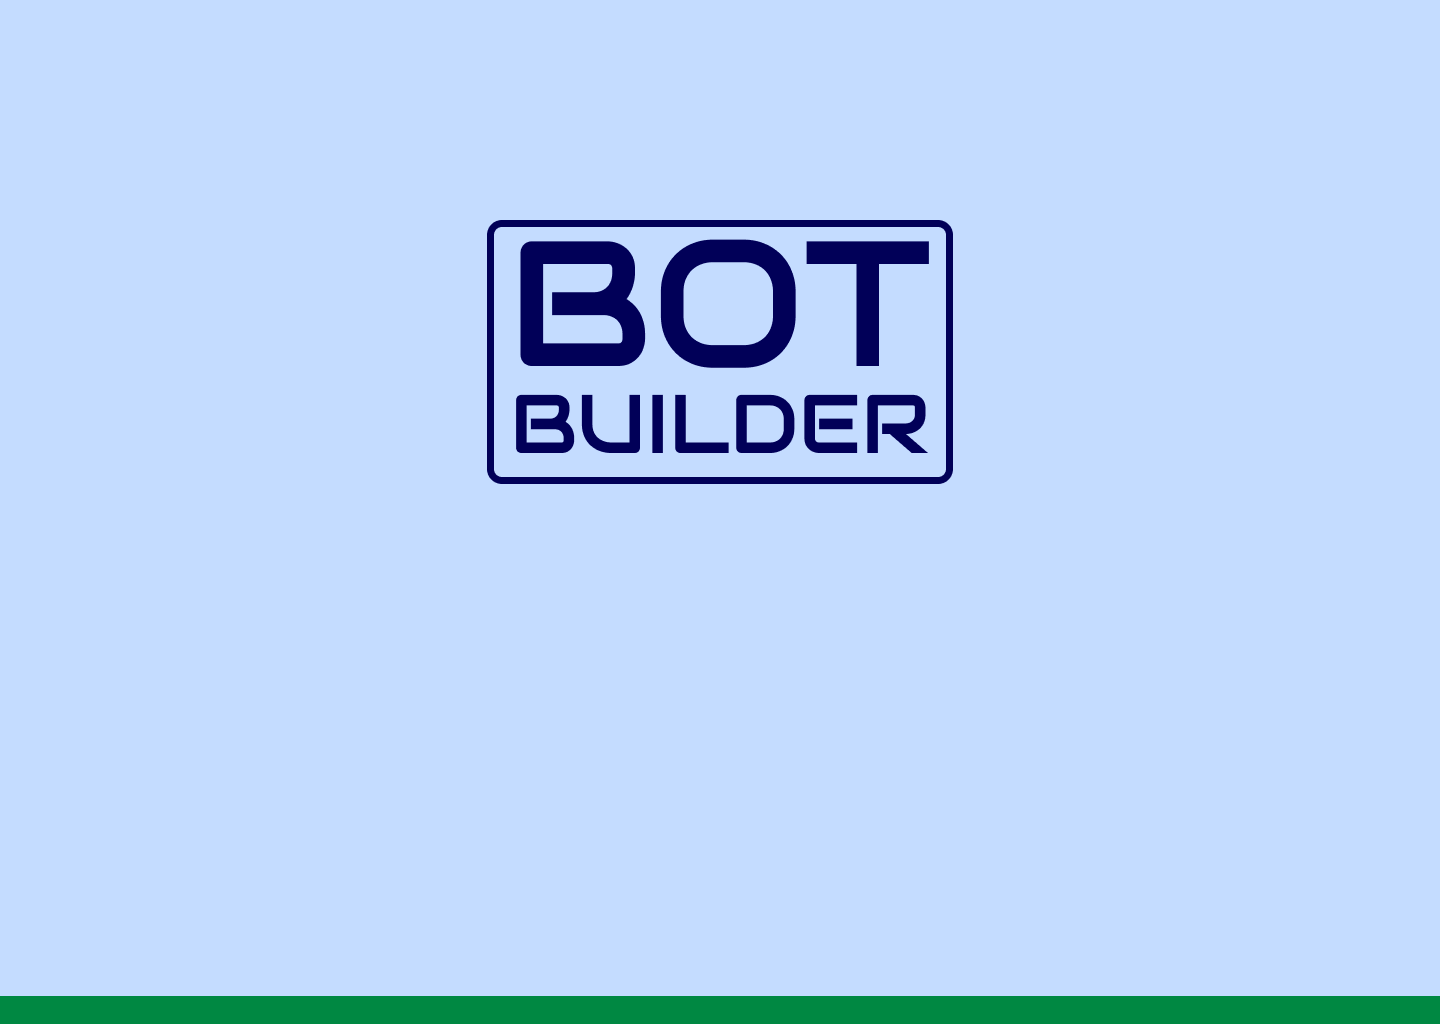
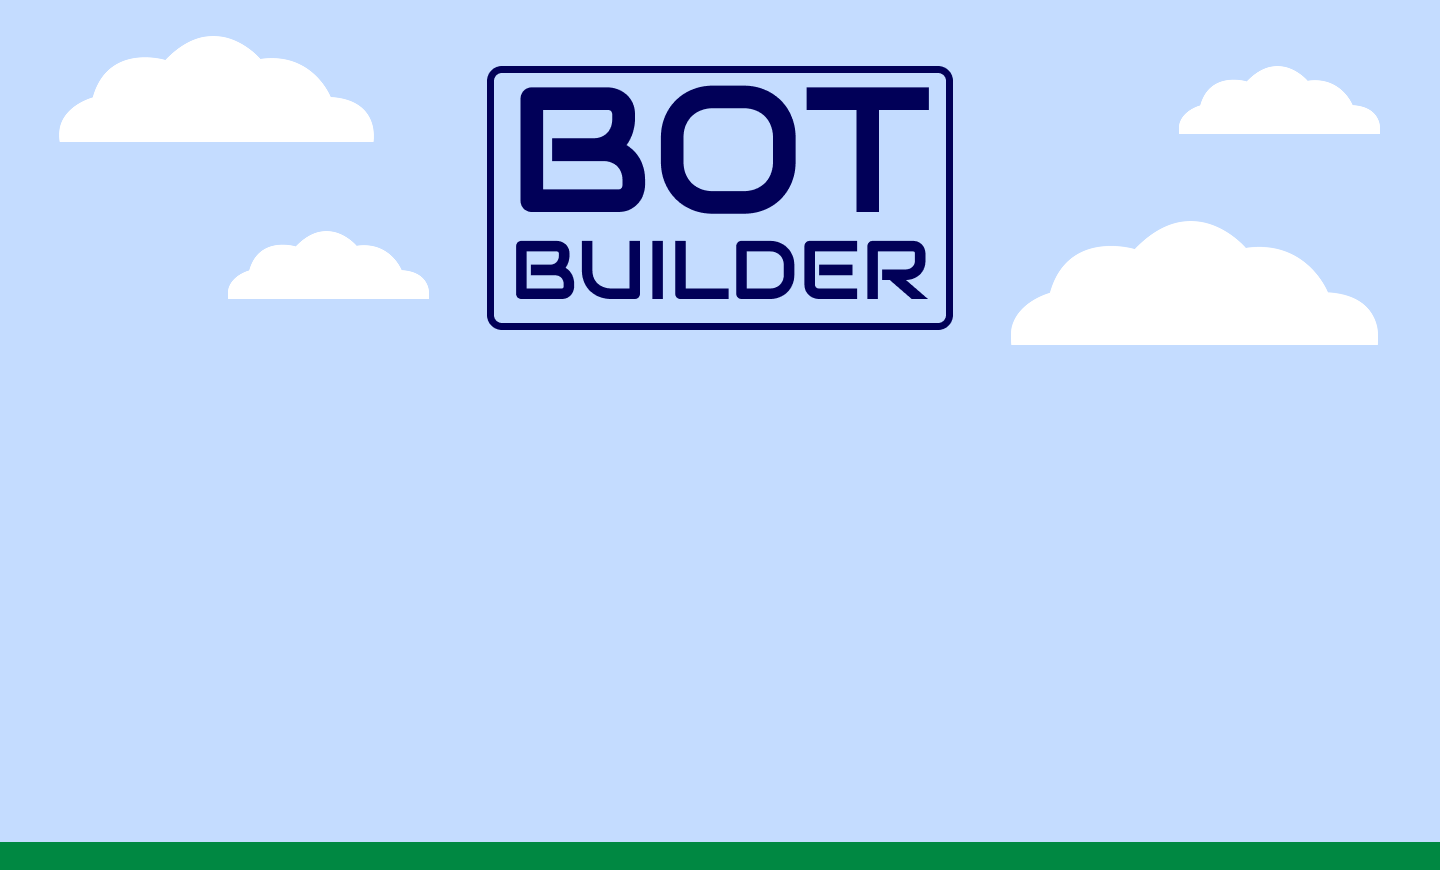
added in more css animations and adjusted html

diff --git a/styles.css b/styles.css
@@ -4,7 +4,7 @@
 
 @import url("reset.css");
 
-
+/*
 
 a {
     text-decoration: none;
@@ -105,7 +105,142 @@ main {
     width: 1440px;
 }
 
+*/
+
+a {
+    text-decoration: none;
+}
+
+body {
+    font-family: "Audiowide", sans-serif;
+    font-weight: 400;
+    font-style: normal;
+    font-size: 16px;
+    line-height: 20px;
+    color: #ffffff;
+    text-decoration: none;
+}
+
+.bot-rotate-y:hover {
+    transform: rotateY(360deg);
+    transition: transform 4s ease-in-out;
+    animation-iteration-count: infinite;
+}
+
+.blue-button {
+    font-family: "Audiowide", sans-serif;
+    font-weight: 400;
+    font-style: normal;
+    font-size: 25px;
+    color: #ffffff;
+    background-color: #1F80FF;
+    padding-left: 20px;
+    padding-right: 20px;
+    padding-top: 20px;
+    padding-bottom: 20px;
+    border-radius: 15px;
+    margin-left: 618px;
+}
+ 
+@keyframes float {
+    0% {transform: translateY(0px);}
+    25% {transform: translateY(20px);}
+    50% {transform: translateY(-10px);}
+    75% {transform: translateY(10px);}
+    100% {transform: translateY(0px);}
+}
+
+.bot-float {
+    animation-name: float;
+    animation-duration: 8s;
+    animation-iteration-count: infinite;
+    margin-bottom: 50px;
+}
+
+.white-button{
+    font-family: "Audiowide", sans-serif;
+    font-weight: 400;
+    font-style: normal;
+    font-size: 16px;
+    color: #1F80FF;
+    background-color: #ffffff;
+    padding-left: 20px;
+    padding-right: 20px;
+    padding-top: 20px;
+    padding-bottom: 20px;
+    border-radius: 15px;
+    width: 105px;
+    height: 20px;
+    margin-top: 47px;
+}
 
 
+h2 {
+    font-family: "Audiowide", sans-serif;
+    font-weight: 400;
+    font-style: normal;
+    font-size: 25px;
+    line-height: 32px;
+    color: #010058;
+    text-decoration: none;
+    padding-top: 350px;
+    margin-bottom: 39px;
+    margin-left: 487px;
+}
 
+li {
+    list-style: none;
+}
 
+.logo {
+    margin-top: 28px;
+    margin-bottom: 28px;
+}
+
+.left-bots {
+    width: 513px;
+    display: flex;
+    align-items: baseline;
+}
+
+.right-bots {
+    width: 416px;
+    display: flex;
+    margin-left: 250px;
+    align-items: baseline;
+}
+.bots {
+    display: flex;
+    align-items: baseline;
+    margin-top: -125px;
+}
+
+main {
+    background-image: url("images/background.png");
+    background-repeat: no-repeat;
+    height:1024px;
+    width: 1440px;
+    margin-top: -21px;
+}
+
+nav ul {
+    display: flex;
+    justify-content: space-between;
+}
+
+nav {
+    background-color: #1F80FF;
+    width: 1440px;
+    margin-left: auto;
+    margin-right: auto;
+}
+
+.right-nav {
+    display: flex;
+    align-content: center;
+}
+
+.right-nav li {
+    align-content: center;
+    margin-right: 47px;
+}

diff --git a/index.html b/index.html
@@ -12,7 +12,7 @@
     <header>
         <nav>
             <ul>
-              <li><img src="images/logo.png" class="logo"/></li>
+              <li><img src="images/logo.png" class="logo" width="98" height="auto" /></li>
               <div class="right-nav">
                 <li>My Bots</li>
                 <li>Premade Bots</li>
@@ -23,25 +23,19 @@
         </nav>
     </header>
     <main>
-        <div class="left_clouds"> 
-            <ul>
-                <li> <img src="images/mediumcloud.png" class="cloud-float"/></li>
-                <li> <img src="images/smallcloud.png" class="cloud-float"/></li>
-            </ul>
-        </div>
-        <div class="right_clouds"> 
-            <ul>
-                <li> <img src="images/smallcloud.png" class="cloud-float"/></li>
-                <li> <img src="images/largecloud.png" class="cloud-float"/></li>
-            </ul>
-        </div>
         <h2>Build Your Own Robot Character!</h2>
         <a class="blue-button">Build A Bot</a>
         <ul>
-            <li><img src="images/pruplebot.png" class="bot-rotate-y"/></li>
+        <div class="bots">
+         <div class="left-bots">
+            <li><img src="images/pruplebot.png" /></li>
             <li><img src="images/orangebot.png" class="bot-rotate-y"/></li>
+         </div>
+         <div class="right-bots">
             <li><img src="images/greenbot.png" class="bot-rotate-y"/></li>
-            <li><img src="images/yellowbot.png" class="bot-rotate-y"/></li>
+            <li><img src="images/yellowbot.png" class="bot-float"/></li>
+        </div>
+        </div>
         </ul>
     </main>
   </body>
